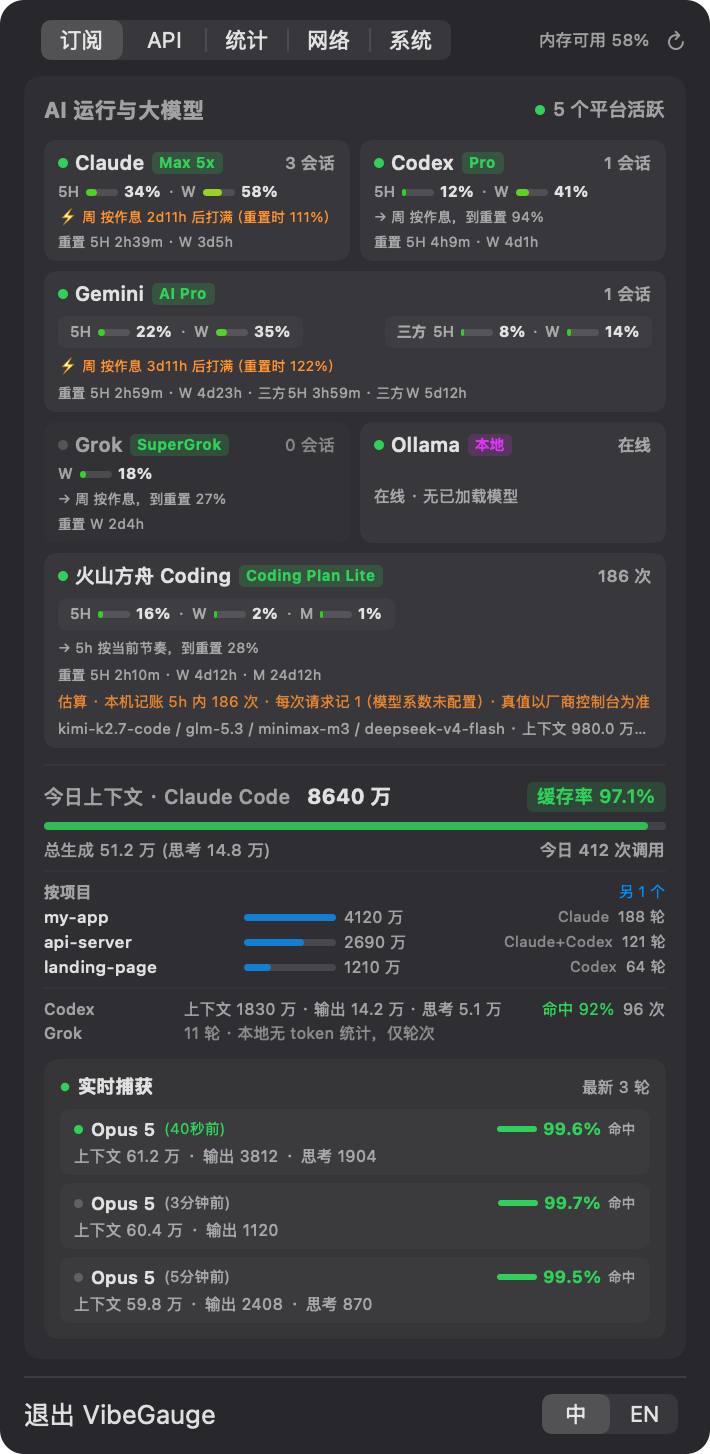
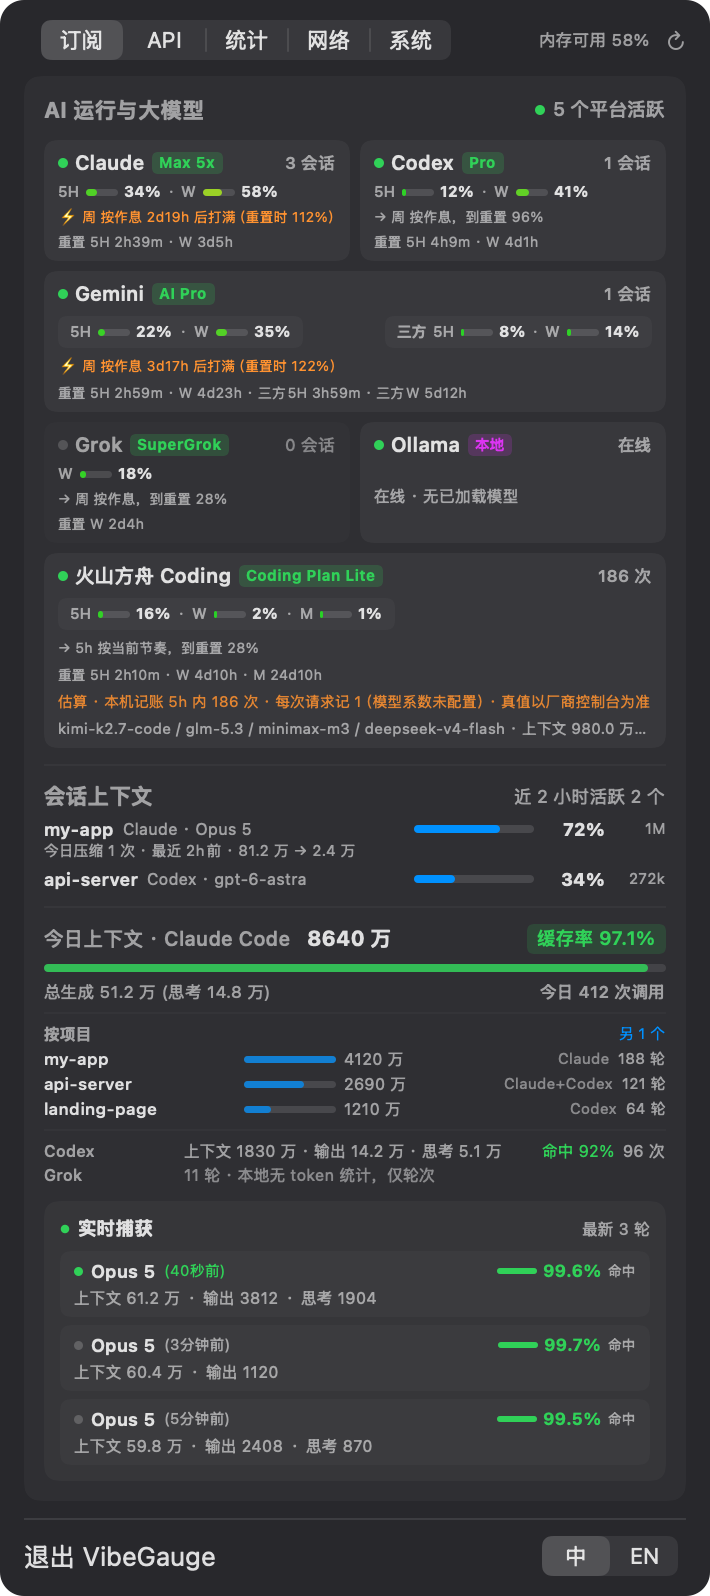
feat: session context levels and compactions (C2)
A "Session context" block on the Plans tab lists sessions active in the last
two hours: working directory, tool and model, how full the context window is,
and today's compactions (with pre / post tokens for Claude).

- Claude: the statusline bridge now saves context_window.used_percentage and
  context_window_size per session_id (claude-sessions.json, locked
  read-merge-write, numbers only, 24 h / 50 sessions). Verified against a live
  Claude Code payload. Compactions come from compact_boundary lines read in
  the existing today's-usage pass.
- Codex: active session files are read incrementally for the latest
  token_count (last_token_usage.total_tokens / model_context_window; the
  cumulative total does not drop after compaction), compacted lines, and the
  cwd / model from session_meta / turn_context (session_meta lines often
  exceed the 16 KB head read, which left the directory blank).
- --diagnose prints the levels; README screenshots include the block.

diff --git a/Sources/SessionMonitor.swift b/Sources/SessionMonitor.swift
@@ -1,0 +1,122 @@
+import Foundation
+
+/// 一个会话的上下文水位：离自动压缩还有多远，今天压缩过几次。只存数字和时间，不存正文。
+public struct SessionContext: Identifiable, Equatable {
+    public var id: String                 // Claude = session_id；Codex = 会话文件路径
+    public var tool: String               // "Claude" / "Codex"
+    public var cwd: String
+    public var model: String
+    /// 0–100；nil = 暂时不知道（Claude 在 /compact 之后、下一次请求之前就是这样）
+    public var usedPct: Double?
+    public var window: Int?
+    public var updatedAt: TimeInterval
+    public var compactions: [Compaction] = []
+    public init(id: String, tool: String, cwd: String, model: String, usedPct: Double?, window: Int?, updatedAt: TimeInterval) {
+        self.id = id; self.tool = tool; self.cwd = cwd; self.model = model
+        self.usedPct = usedPct; self.window = window; self.updatedAt = updatedAt
+    }
+}
+
+public struct Compaction: Equatable {
+    public var at: TimeInterval
+    /// 压缩前后占用的 token（Claude 的 compact_boundary 给出；Codex 只知道发生了）
+    public var pre: Int?
+    public var post: Int?
+}
+
+/// Codex 会话文件的增量状态
+struct CodexCtxState {
+    var offset: UInt64 = 0
+    var size: UInt64 = 0
+    var used: Int?
+    var window: Int?
+    var model = ""
+    var cwd = ""
+    var lastAt: TimeInterval = 0
+    var compactions: [Compaction] = []
+}
+
+extension ProcessScanner {
+    static let sessionActiveWindow: TimeInterval = 2 * 3600
+    static let compactMarker = Data("\"subtype\":\"compact_boundary\"".utf8)
+    static let codexCtxMarkers = [Data("\"token_count\"".utf8), Data("\"type\":\"compacted\"".utf8), Data("\"turn_context\"".utf8),
+                                  Data("\"type\":\"session_meta\"".utf8)]
+
+    /// Claude 日志里的 compact_boundary：压缩发生的时刻与前后 token
+    static func claudeCompaction(_ data: Data) -> (id: String, event: Compaction)? {
+        guard data.range(of: compactMarker) != nil,
+              let j = try? JSONSerialization.jsonObject(with: data) as? [String: Any],
+              j["subtype"] as? String == "compact_boundary",
+              let id = j["uuid"] as? String, let ts = Fmt.parseISODate(j["timestamp"] as? String) else { return nil }
+        let meta = j["compactMetadata"] as? [String: Any] ?? [:]
+        return (id, Compaction(at: ts, pre: (meta["preTokens"] as? NSNumber)?.intValue, post: (meta["postTokens"] as? NSNumber)?.intValue))
+    }
+
+    /// Codex 一行：token_count 给「这次请求」的 last_token_usage.total_tokens 与 model_context_window
+    /// （水位 = 两者之比；不能用累计值，也不能自己把 input / output 相加 —— 压缩后累计值不会降）；compacted = 压缩
+    static func consumeCodexContextLine(_ data: Data, into s: inout CodexCtxState) {
+        guard codexCtxMarkers.contains(where: { data.range(of: $0) != nil }),
+              let j = try? JSONSerialization.jsonObject(with: data) as? [String: Any] else { return }
+        let ts = Fmt.parseISODate(j["timestamp"] as? String) ?? 0
+        let payload = j["payload"] as? [String: Any] ?? [:]
+        switch j["type"] as? String {
+        case "compacted":
+            s.compactions.append(Compaction(at: ts, pre: nil, post: nil))
+        case "turn_context", "session_meta":
+            // session_meta 第一行常塞着整段系统提示词（远超 16 KB），只读文件开头取不到 cwd；在这里顺手记下
+            if let m = payload["model"] as? String, !m.isEmpty { s.model = m }
+            if let c = payload["cwd"] as? String, !c.isEmpty { s.cwd = c }
+        case "event_msg" where payload["type"] as? String == "token_count":
+            guard let info = payload["info"] as? [String: Any] else { return }
+            if let w = (info["model_context_window"] as? NSNumber)?.intValue, w > 0 { s.window = w }
+            if let last = info["last_token_usage"] as? [String: Any], let t = (last["total_tokens"] as? NSNumber)?.intValue {
+                s.used = t
+                s.lastAt = max(s.lastAt, ts)
+            }
+        default: break
+        }
+    }
+
+    func scanSessions(now: TimeInterval = Date().timeIntervalSince1970) -> [SessionContext] {
+        var out: [SessionContext] = []
+        let startOfToday = Calendar.current.startOfDay(for: Date(timeIntervalSince1970: now)).timeIntervalSince1970
+
+        // Claude：状态栏桥接按 session_id 存的水位；压缩记录来自今日用量那趟读到的 compact_boundary
+        let rows = (readJSON("\(home)/.config/vibegauge/claude-sessions.json")?["sessions"] as? [String: Any]) ?? [:]
+        for (sid, v) in rows {
+            guard let r = v as? [String: Any], let at = (r["at"] as? NSNumber)?.doubleValue, now - at < Self.sessionActiveWindow else { continue }
+            var s = SessionContext(id: sid, tool: "Claude", cwd: r["cwd"] as? String ?? "", model: r["model"] as? String ?? "",
+                                   usedPct: (r["used_pct"] as? NSNumber)?.doubleValue, window: (r["window"] as? NSNumber)?.intValue, updatedAt: at)
+            s.compactions = fileStates.first { $0.key.hasSuffix("/\(sid).jsonl") }?.value.compactions.values
+                .filter { $0.at >= startOfToday }.sorted { $0.at < $1.at } ?? []
+            out.append(s)
+        }
+
+        // Codex：近 2 小时改过的会话文件，从上次读到的位置接着读
+        var seen = Set<String>()
+        for f in codexSessionFiles(modifiedWithin: Self.sessionActiveWindow) {
+            seen.insert(f.path)
+            var st = codexCtxStates[f.path] ?? CodexCtxState()
+            let size = (try? FileManager.default.attributesOfItem(atPath: f.path)[.size] as? NSNumber)?.uint64Value ?? 0
+            if size < st.size { st = CodexCtxState() }          // 文件变小 = 被重写，从头来
+            if size > st.offset, let fh = FileHandle(forReadingAtPath: f.path) {
+                var s2 = st
+                if let end = try? LineReader.read(fh, from: st.offset, to: size, { line, _ in Self.consumeCodexContextLine(line, into: &s2) }) {
+                    s2.offset = end
+                    st = s2
+                }
+                try? fh.close()
+            }
+            st.size = size
+            codexCtxStates[f.path] = st
+            guard let used = st.used else { continue }
+            var s = SessionContext(id: f.path, tool: "Codex", cwd: st.cwd.isEmpty ? (sessionCwd(of: f.path) ?? "") : st.cwd, model: st.model,
+                                   usedPct: st.window.map { Double(used) / Double($0) * 100 }, window: st.window,
+                                   updatedAt: st.lastAt > 0 ? st.lastAt : f.mtime)
+            s.compactions = st.compactions.filter { $0.at >= startOfToday }
+            out.append(s)
+        }
+        codexCtxStates = codexCtxStates.filter { seen.contains($0.key) }
+        return out.sorted { $0.updatedAt > $1.updatedAt }
+    }
+}

diff --git a/Sources/DashboardView.swift b/Sources/DashboardView.swift
@@ -710,6 +710,11 @@ public struct DashboardView: View {
                 }
             }
 
+            if !report.sessions.isEmpty {
+                Divider().opacity(0.35)
+                sessionContextSection(report.sessions)
+            }
+
             Divider().opacity(0.35)
 
             // 今日 Token 与 Prompt Cache
@@ -1399,6 +1404,38 @@ public struct DashboardView: View {
                 .foregroundColor(llm.isRunning ? .secondary : .secondary.opacity(0.75))
                 .lineLimit(1)
                 .fixedSize()
+        }
+    }
+
+    /// 会话上下文水位：离自动压缩还有多远、今天压缩过几次（Claude 来自状态栏官方字段，Codex 来自会话日志）
+    private func sessionContextSection(_ sessions: [SessionContext]) -> some View {
+        VStack(alignment: .leading, spacing: 4) {
+            HStack {
+                Text(L("会话上下文", "Session context")).font(.system(size: 11, weight: .bold)).foregroundColor(.secondary)
+                Spacer()
+                Text(L("近 2 小时活跃 \(sessions.count) 个", "\(sessions.count) active in 2h")).font(.system(size: 9)).foregroundColor(.secondary)
+            }
+            ForEach(sessions.prefix(6)) { s in
+                let pct = s.usedPct.map { Int($0.rounded()) }
+                VStack(alignment: .leading, spacing: 1) {
+                    HStack(spacing: 4) {
+                        Text((s.cwd as NSString).lastPathComponent.isEmpty ? "~" : (s.cwd as NSString).lastPathComponent)
+                            .font(.system(size: 9, weight: .semibold)).lineLimit(1)
+                        Text(s.tool + (s.model.isEmpty ? "" : " · " + Fmt.modelDisplayName(s.model)))
+                            .font(.system(size: 8)).foregroundColor(.secondary).lineLimit(1)
+                        Spacer(minLength: 4)
+                        MiniProgressBar(value: Double(pct ?? 0) / 100, color: (pct ?? 0) >= 90 ? .red : (pct ?? 0) >= 80 ? .orange : .blue, width: 60, height: 4)
+                        Text(pct.map { "\($0)%" } ?? "—").font(.system(size: 9, weight: .bold)).frame(width: 32, alignment: .trailing)
+                        Text(s.window.map { $0 >= 1_000_000 ? "1M" : "\($0 / 1000)k" } ?? "").font(.system(size: 7.5)).foregroundColor(.secondary).frame(width: 26, alignment: .trailing)
+                    }
+                    if let last = s.compactions.last {
+                        Text(L("今日压缩 \(s.compactions.count) 次 · 最近 \(Fmt.agoShort(Int(nowTS - last.at)))", "compacted \(s.compactions.count)× today · last \(Fmt.agoShort(Int(nowTS - last.at)))")
+                             + (last.pre != nil && last.post != nil ? " · \(Fmt.tokens(Int64(last.pre!))) → \(Fmt.tokens(Int64(last.post!)))" : ""))
+                            .font(.system(size: 7.5)).foregroundColor(.secondary)
+                    }
+                }
+                .opacity(nowTS - s.updatedAt > 1800 ? 0.6 : 1)       // 半小时没动的会话淡一点
+            }
         }
     }
 

diff --git a/tools/screenshots.swift b/tools/screenshots.swift
@@ -114,7 +114,7 @@ struct Screenshots {
         r.detectedLLMs = [claude, codex, gemini, grok, ollama]
         // 经记账代理的 Coding Plan 订阅：按请求数估算的滚动窗口，显示在订阅页
         var plan = APIProviderStatus(host: "ark.cn-beijing.volces.com", provider: L("火山方舟 Coding", "Volcano Ark Coding"))
-        plan.cardID = "demo-plan"; plan.plan = "Coding Plan Lite"; plan.calls = 186; plan.lastTS = now - 40
+        plan.cardID = "demo-plan"; plan.plan = "Coding Plan Lite"; plan.isSubscription = true; plan.calls = 186; plan.lastTS = now - 40
         plan.ctx = 9_800_000; plan.out = 61_000
         let calls = (0..<186).map { (t: now - Double($0) * 55, w: 1.0) }
         plan.fiveHour = ProcessScanner.planWindow(calls, kind: "first_use", seconds: fiveH, limit: 1200, now: now)
@@ -125,6 +125,10 @@ struct Screenshots {
                               "186 logged in 5h · 1 per request (no model weights set) · the provider console is authoritative")
         plan.models = ["kimi-k2.7-code", "glm-5.3", "minimax-m3", "deepseek-v4-flash"]
         r.api.providers = [plan]
+        var s1 = SessionContext(id: "demo-1", tool: "Claude", cwd: "~/code/my-app", model: "claude-opus-5", usedPct: 72, window: 1_000_000, updatedAt: now - 30)
+        s1.compactions = [Compaction(at: now - 2 * hour, pre: 812_000, post: 24_000)]
+        let s2 = SessionContext(id: "demo-2", tool: "Codex", cwd: "~/code/api-server", model: "gpt-6-astra", usedPct: 34, window: 272_000, updatedAt: now - 300)
+        r.sessions = [s1, s2]
 
         var t = TokenStats()
         t.todayTurns = 412; t.todayContext = 86_400_000; t.todayCacheRead = 83_900_000

diff --git a/Sources/SelfTestFixtures.swift b/Sources/SelfTestFixtures.swift
@@ -70,6 +70,15 @@ enum SelfTestFixtures {
         precondition(retry(#"{"status":401}"#) == .auth && retry(#"{"status":529,"rateLimits":{}}"#) == .overloaded && retry(#"{"status":429}"#) == .rateLimit)
         precondition(retry(#"{"connection":{"code":"ECONNRESET"}}"#) == .connection && retry(#"{}"#) == .other)
 
+        // 会话上下文：Codex 用「这次请求」的 total_tokens ÷ 窗口；compacted 行记一次压缩；Claude 的 compact_boundary 带前后 token
+        var ctx = CodexCtxState()
+        for line in (codex_0_156 + #"{"timestamp":"2026-09-18T16:00:10.000Z","type":"compacted","payload":{"message":"x"}}"#).split(separator: "\n") {
+            ProcessScanner.consumeCodexContextLine(Data(line.utf8), into: &ctx)
+        }
+        precondition(ctx.used == 26786 && ctx.window == 258400 && ctx.model == "gpt-6-astra" && ctx.compactions.count == 1 && ctx.cwd == "/fixture", "Codex 上下文：\(ctx)")
+        let compact = claude_2_1_278.split(separator: "\n").compactMap { ProcessScanner.claudeCompaction(Data($0.utf8)) }
+        precondition(compact.count == 1 && compact[0].event.pre == 758290 && compact[0].event.post == 21625, "Claude 压缩：\(compact)")
+
         let quota = ProcessScanner.shared.parseCodexText(codex_0_156, fallbackTime: 0).buckets["codex"]
         precondition(quota?.weekly?.usedPct == 97 && quota?.weekly?.resetsAt == 1790414260 && quota?.fiveHour == nil && quota?.plan == "prolite",
                      "Codex 0.156 额度：只有周窗")

diff --git a/Sources/Diagnostics.swift b/Sources/Diagnostics.swift
@@ -71,6 +71,10 @@ enum Diagnostics {
             if let hw = p.headerWindow { print(L("    限流头: \(p.headerLabel) 已用 \(hw.usedPct)% 重置 \(Fmt.countdown(to: hw.resetsAt, now: now) ?? "?")", "    rate-limit headers: \(p.headerLabel) \(hw.usedPct)% used, resets \(Fmt.countdown(to: hw.resetsAt, now: now) ?? "?" )")) }
             if p.quotaIsEstimate { print(L("    额度=估算 · \(p.estimateNote) · 上限 \(p.planLimitText)", "    quota=estimated · \(p.estimateNote) · limit \(p.planLimitText)")) }
         }
+        print(L("--- 会话上下文（近 2 小时） ---", "--- Session context (last 2 h) ---"))
+        for s in r.sessions.prefix(8) {
+            print("  \(s.tool) \((s.cwd as NSString).lastPathComponent) \(s.usedPct.map { String(format: "%.0f%%", $0) } ?? "—") / \(s.window.map(String.init) ?? "?") · " + L("今日压缩 \(s.compactions.count) 次", "compacted \(s.compactions.count)× today"))
+        }
         print("--- Token ---")
         let t = r.tokens
         print(String(format: L("今日 %d 次调用  上下文 %lld  缓存读 %lld  命中 %.1f%%  输出 %lld  思考 %lld", "Today %d calls  context %lld  cache read %lld  hit %.1f%%  output %lld  reasoning %lld"), t.todayTurns, t.todayContext, t.todayCacheRead, t.todayCacheHitRate, t.todayOutput, t.todayThinking))

diff --git a/Sources/ProcessScanner.swift b/Sources/ProcessScanner.swift
@@ -21,7 +21,10 @@ public final class ProcessScanner {
         var head = Data()          // 文件前 256 字节指纹，识别原地重写 / 替换
         var turns: [String: InteractionRecord] = [:]
         var anomalies: [String: (ts: TimeInterval, final: Bool, kind: RequestAnomalies.Kind)] = [:]   // uuid → 错误事件
+        var compactions: [String: Compaction] = [:]     // uuid → 压缩事件（compact_boundary）
     }
+    /// Codex 活跃会话的增量读取状态（上下文水位、压缩次数）
+    var codexCtxStates: [String: CodexCtxState] = [:]
     /// 最近一次 scanTokens 算出的今日请求异常（详情页用）
     var claudeAnomalies = RequestAnomalies()
     var fileStates: [String: FileParseState] = [:]
@@ -254,6 +257,7 @@ public final class ProcessScanner {
         report.detectedLLMs = withQuotaSamples(detectAllLLMRuntimes(counts))
         report.api = scanAPI()
         report.cliUsage = scanCLIUsage(claude: report.tokens)
+        report.sessions = scanSessions()
         return report
     }
 

diff --git a/Sources/TokenUsage.swift b/Sources/TokenUsage.swift
@@ -86,6 +86,7 @@ extension ProcessScanner {
         state.head = head
         var turns = state.turns
         var anomalies = state.anomalies
+        var compactions = state.compactions
         do {
             state.parsedOffset = try LineReader.read(fh, from: state.parsedOffset, to: size) { line, _ in
                 if var rec = parseAssistantLine(line) {
@@ -93,11 +94,14 @@ extension ProcessScanner {
                     turns[rec.id] = rec   // 同 requestId 后写覆盖前写（usage 相同）
                 } else if let a = Self.claudeAnomaly(line) {
                     anomalies[a.id] = (a.ts, a.final, a.kind)
+                } else if let c = Self.claudeCompaction(line) {
+                    compactions[c.id] = c.event
                 }
             }
         } catch { return state }
         state.turns = turns
         state.anomalies = anomalies
+        state.compactions = compactions
         state.mtime = mtime
         state.size = size
         fileStates[path] = state

diff --git a/Sources/Models.swift b/Sources/Models.swift
@@ -318,6 +318,8 @@ public struct ScanReport {
 
     // 各 CLI 今日自己的用量
     public var cliUsage: [CLIUsage] = []
+    /// 近期活跃会话的上下文水位与压缩记录
+    public var sessions: [SessionContext] = []
 
     // API Key 调用（记账代理）
     public var api: ProxyStatus = ProxyStatus()

diff --git a/Resources/vibegauge-statusline.py b/Resources/vibegauge-statusline.py
@@ -39,6 +39,11 @@ def out_path(tool: str) -> str:
     return os.path.join(data_dir(), {"claude": "claude-usage.json", "agy": "agy-quota.json"}[tool])
 
 
+def sessions_path() -> str:
+    """Claude 各会话的上下文水位（只存数字、模型 ID、工作目录和时间，不存正文）"""
+    return os.path.join(data_dir(), "claude-sessions.json")
+
+
 def state_path(tool: str) -> str:
     """每个工具一个状态文件：同时连接 Claude 和 agy 时不会互相覆盖对方的「原命令」记录"""
     return os.path.join(data_dir(), "statusline-%s.json" % tool)
@@ -106,6 +111,7 @@ def capture(tool: str, data, now: float) -> None:
         if isinstance(rl, dict) and rl:
             private_dir()
             write_json(out_path(tool), dict(rl, _captured_at=now))
+        save_claude_session(data, now)
         return
     # agy：{"quota": {"gemini-5h": {"remaining_fraction", "reset_in_seconds"}, "3p-weekly": {...}}}
     # 只带当前模型所在的池，所以要跟旧文件合并；过期条目也留着（VibeGauge 自己判断已重置 → 0%）
@@ -119,6 +125,32 @@ def capture(tool: str, data, now: float) -> None:
     with open(os.path.join(private_dir(), ".agy-quota.lock"), "a") as lock:
         fcntl.flock(lock, fcntl.LOCK_EX)
         merge_agy(q, default_pool, now)
+
+
+SESSIONS_KEEP = 24 * 3600
+SESSIONS_MAX = 50
+
+
+def save_claude_session(data: dict, now: float) -> None:
+    """按 session_id 记上下文水位：context_window.used_percentage 只算输入（含缓存），/compact 后到下次请求前可能为 null"""
+    sid, cw = data.get("session_id"), data.get("context_window")
+    if not isinstance(sid, str) or not sid or not isinstance(cw, dict):
+        return
+    def num(v):
+        return v if isinstance(v, (int, float)) and not isinstance(v, bool) else None
+    model, ws = data.get("model"), data.get("workspace")
+    row = {"used_pct": num(cw.get("used_percentage")), "window": num(cw.get("context_window_size")),
+           "model": (model.get("id") or model.get("display_name")) if isinstance(model, dict) else (model if isinstance(model, str) else None),
+           "cwd": ws.get("current_dir") if isinstance(ws, dict) else data.get("cwd"), "at": now}
+    # 多个会话同时刷新：读-合并-写整段加锁
+    with open(os.path.join(private_dir(), ".claude-sessions.lock"), "a") as lock:
+        fcntl.flock(lock, fcntl.LOCK_EX)
+        cache = read_json(sessions_path(), {})
+        sessions = cache.get("sessions") if isinstance(cache.get("sessions"), dict) else {}
+        sessions[sid] = row
+        fresh = {k: v for k, v in sessions.items() if isinstance(v, dict) and (v.get("at") or 0) > now - SESSIONS_KEEP}
+        keep = dict(sorted(fresh.items(), key=lambda kv: kv[1]["at"], reverse=True)[:SESSIONS_MAX])
+        write_json(sessions_path(), {"sessions": keep, "updated_at": now})
 
 
 def merge_agy(q: dict, default_pool: str, now: float) -> None:
@@ -337,6 +369,21 @@ def selftest() -> None:
         u = read_json(out_path("claude"), {})
         assert u["five_hour"]["used_percentage"] == 21 and u["_captured_at"] > 0
         assert os.stat(out_path("claude")).st_mode & 0o777 == 0o600
+        # 会话上下文水位：按 session_id 各存一份，只存数字；/compact 后 used_percentage 为 null 也照记（界面显示未知）
+        for sid, pct in (("s-a", 72.5), ("s-b", None)):
+            run_as_statusline("claude", {"session_id": sid, "model": {"id": "claude-opus-5", "display_name": "Opus"},
+                                         "workspace": {"current_dir": "/Users/x/p"},
+                                         "context_window": {"used_percentage": pct, "context_window_size": 1000000,
+                                                            "current_usage": None}})
+        ss = read_json(sessions_path(), {})["sessions"]
+        assert ss["s-a"]["used_pct"] == 72.5 and ss["s-a"]["window"] == 1000000 and ss["s-a"]["model"] == "claude-opus-5", ss
+        assert ss["s-b"]["used_pct"] is None and ss["s-a"]["cwd"] == "/Users/x/p"
+        assert os.stat(sessions_path()).st_mode & 0o777 == 0o600
+        # 24 小时前的会话清掉
+        stale = read_json(sessions_path(), {}); stale["sessions"]["old"] = {"used_pct": 1, "at": time.time() - 2 * 86400}
+        write_json(sessions_path(), stale)
+        run_as_statusline("claude", {"session_id": "s-a", "context_window": {"used_percentage": 80}})
+        assert "old" not in read_json(sessions_path(), {})["sessions"]
         # 还原：恢复成原来的 statusLine，键顺序不变
         assert uninstall("claude") == "uninstalled"
         s = load_settings(cpath)

diff --git a/docs/PROTOCOL.md b/docs/PROTOCOL.md
@@ -29,6 +29,7 @@ All files live in `~/.config/vibegauge/`. The app and helpers create the directo
 | `prices.json` | you | Stable | Cost is no longer shown |
 | `plans.json` | you | Stable | Plan estimates are no longer shown |
 | `proxy.json` | you | Stable | The accounting proxy goes back to environment / system proxy settings |
+| `claude-sessions.json` | statusline bridge | Internal | Session context levels disappear until each session's statusline refreshes |
 | `statusline-claude.json`, `statusline-agy.json` | statusline bridge | Internal | **Your original statusline command is forgotten**; the bridge shows its own short line and `--uninstall` can no longer restore it |
 | `quota-samples.json` | app | Internal | Burn rate restarts from scratch; last-cycle finals are lost |
 | `usage-daily.json` | app | Internal | **History of session logs you already deleted is lost for good**; history of logs still on disk is rebuilt |
@@ -159,6 +160,12 @@ You can feed VibeGauge from your own statusline script by writing this file. Vib
 ```
 
 agy only reports the pool of the current model, so the bridge merges into the existing file under a lock. Expired windows are kept; VibeGauge shows them as reset. VibeGauge also reads `~/.cache/agy-hud/quota_cache.json` (same shape) and takes the newer value per window.
+
+### `claude-sessions.json` (Internal)
+
+`{"sessions": {"<session_id>": {"used_pct", "window", "model", "cwd", "at"}}, "updated_at"}`: Claude Code's `context_window.used_percentage` (input tokens only: fresh + cache writes + cache reads, as Claude Code defines it) and `context_window_size` per session, saved on every statusline refresh under a lock. `used_pct` is null right after `/compact` until the next request. Only numbers, the model ID, the working directory, and a time are kept; sessions idle for 24 hours are dropped (at most 50).
+
+Codex context levels are read from its session logs instead: `info.last_token_usage.total_tokens ÷ info.model_context_window` from the latest `token_count` event (the cumulative total does not drop after compaction, so it cannot be used). Compactions are the `compacted` lines (Codex) and `system` / `compact_boundary` lines (Claude, with pre / post token counts).
 
 ### `statusline-<tool>.json` (Internal)
 
